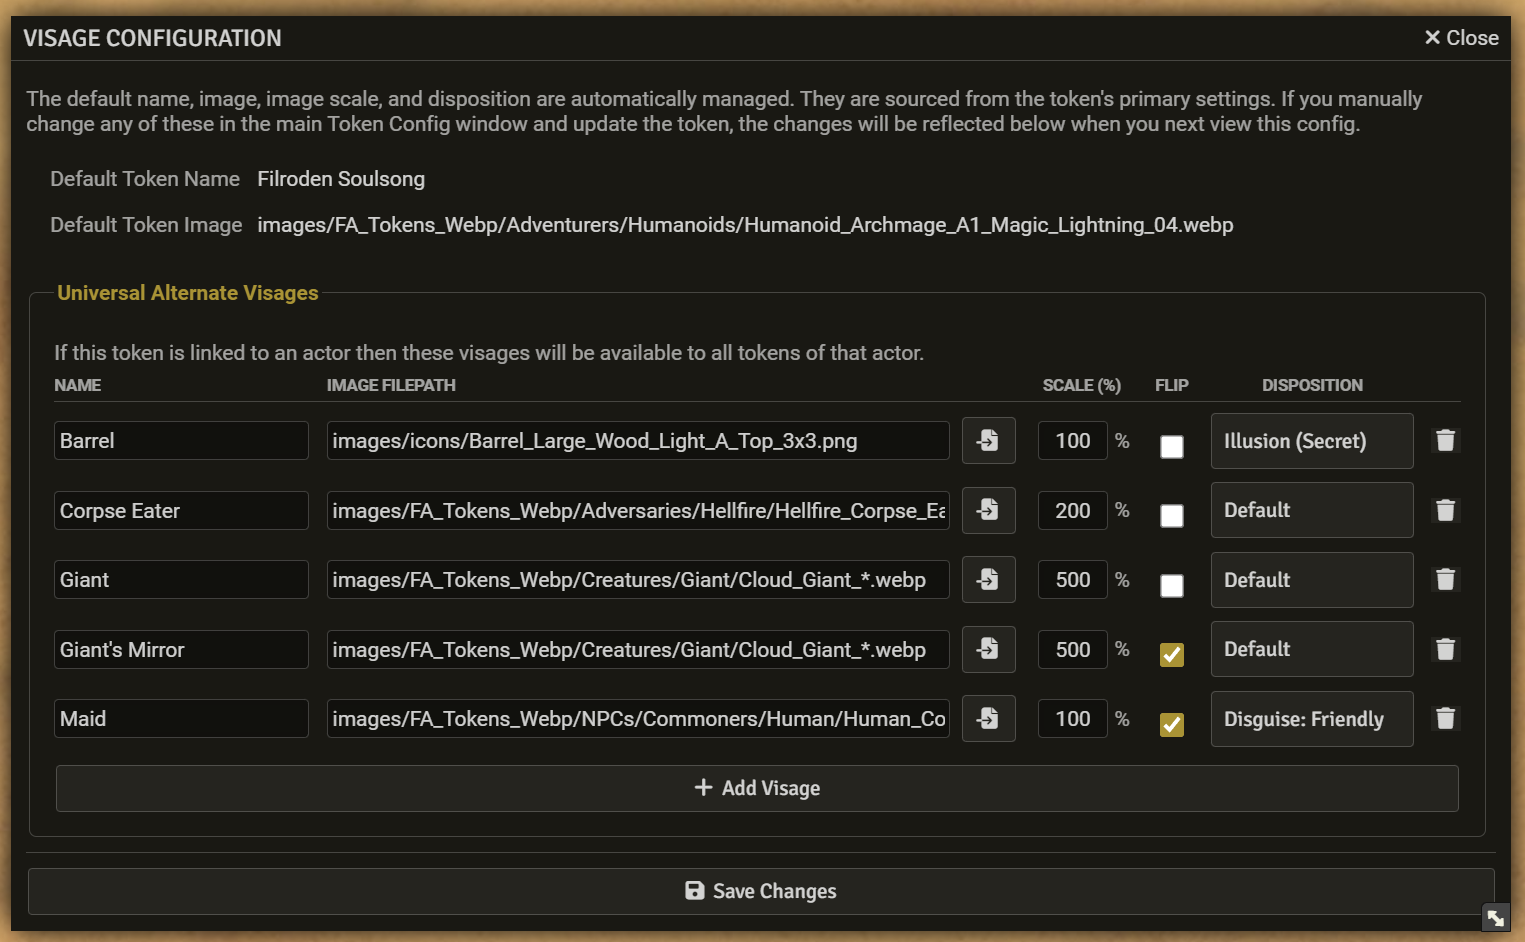
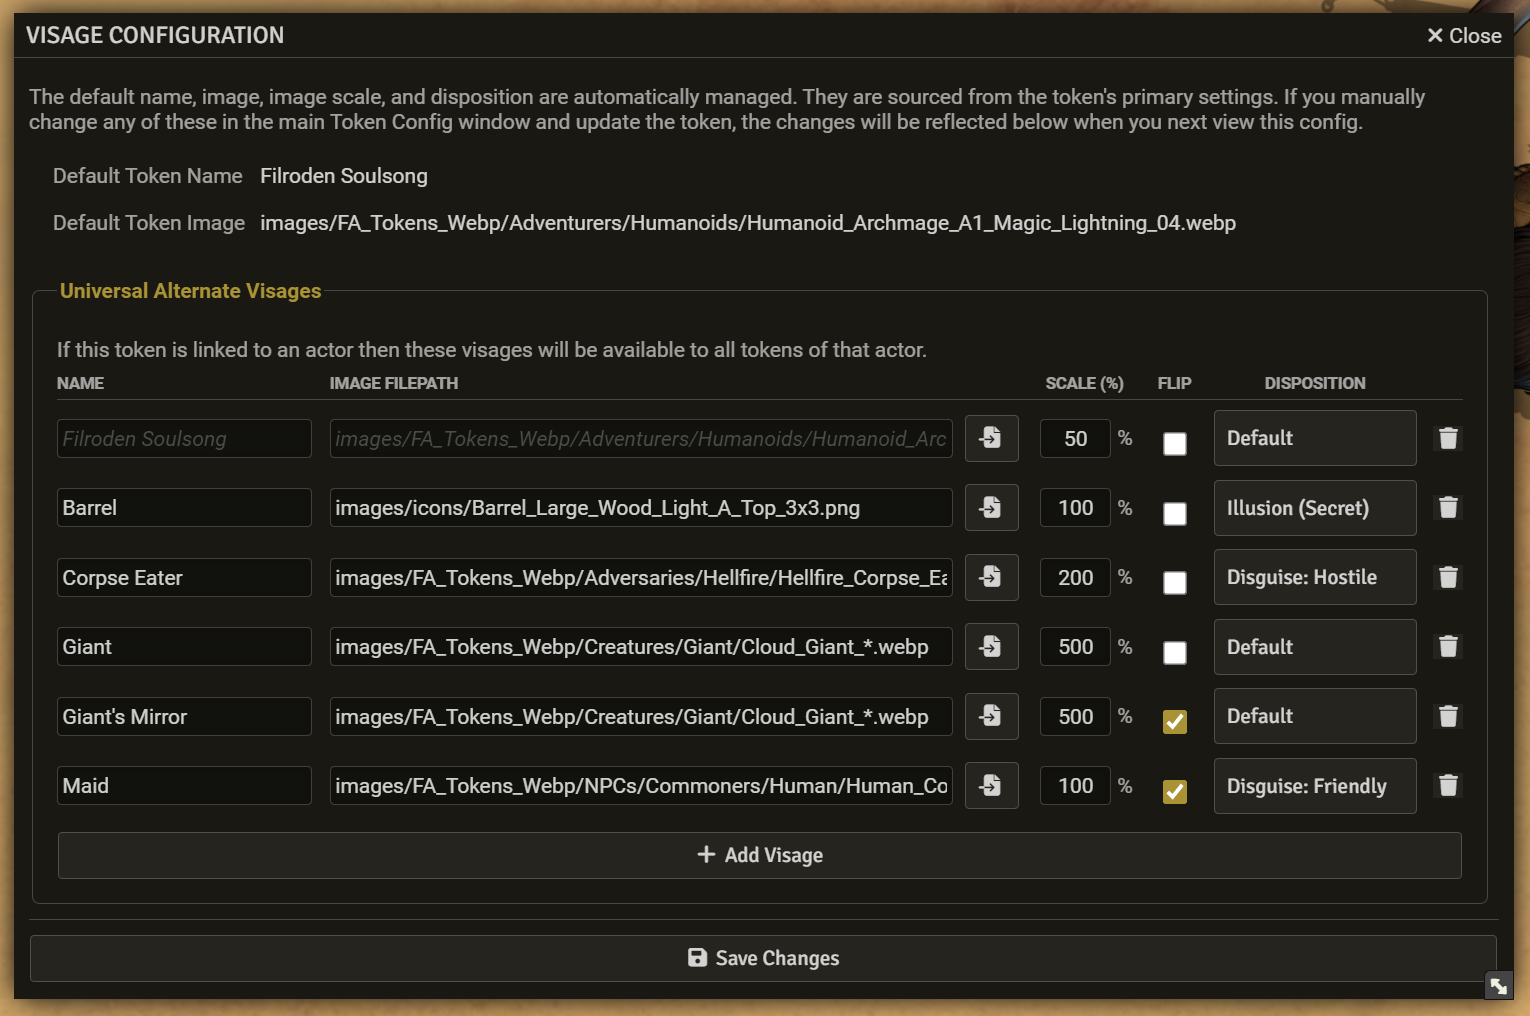
feat: accept default name and path (#31)
Visages can now be saved with blank Name or Image Path fields to create "partial" visages that only change scale and/or disposition, inheriting the token's default name/image as needed.

Upgraded the getForms API to accept an optional tokenId to intelligently resolve these partial visages using either token-specific defaults or (if no ID is provided) the actor's prototype token defaults.

diff --git a/visage-config.js b/visage-config.js
@@ -339,38 +339,7 @@ export class VisageConfigApp extends Application {
         let validationFailed = false;
         let newVisageCounter = 1;
 
-        // --- 1. VALIDATION PASS ---
-        // First, loop through and validate all data before saving anything.
-        for (const row of visageRows) {
-            const nameInput = row.querySelector('input[name="visage-name"]'); // Changed to 'visage-name'
-            const pathInput = row.querySelector('input[name="visage-path"]');
-            if (!nameInput || !pathInput) continue;
-
-            let name = nameInput.value.trim(); // Changed 'key' to 'name'
-            const path = pathInput.value.trim();
-
-            if (!name && !path) continue; // Skip totally blank rows (e.g., an empty "new" row)
-
-            // Auto-generate a name
-            if (!name) {
-                name = `Visage ${newVisageCounter++}`;
-                nameInput.value = name; // Update the form input field
-            }
-
-            // Check for empty paths
-            if (!path) {
-                ui.notifications.error(`Image path for "${name}" cannot be empty.`);
-                validationFailed = true;
-                break;
-            }
-        }
-
-        if (validationFailed) {
-            this.isDirty = true; // Re-set dirty state since save failed
-            return;
-        }
-
-        // --- 2. SAVE PASS ---
+        // --- SAVE PASS ---
         // If validation passed, build the update payload.
         const ns = Visage.DATA_NAMESPACE;
         const alternateFlagKey = Visage.ALTERNATE_FLAG_KEY; // "alternateVisages"
@@ -387,21 +356,15 @@ export class VisageConfigApp extends Application {
             // Check for an existing UUID data attribute
             uuid = row.dataset.uuid || null;
 
-            const name = row.querySelector('input[name="visage-name"]')?.value.trim(); // Changed to 'visage-name' and 'name'
+            const name = row.querySelector('input[name="visage-name"]')?.value.trim();
             const path = row.querySelector('input[name="visage-path"]')?.value.trim();
+            
+            // --- Parse Scale ---
             const scaleInput = row.querySelector('input[name="visage-scale"]')?.value;
-            // Convert percentage string back to a float (default to 100% -> 1.0)
             let scale = (scaleInput ? parseInt(scaleInput, 10) : 100) / 100; 
             const isFlippedX = row.querySelector('input[name="visage-flip-x"]')?.checked;
-
-            // Apply flip: store scale as negative if flipped
-            if (isFlippedX) {
-                scale = -Math.abs(scale); 
-            } else {
-                scale = Math.abs(scale); 
-            }
-
-            // Get Disposition Value
+            
+            // --- Parse Disposition ---
             let savedDisposition = null; // Default to 'null' (No Change)
             const dispoType = row.querySelector('input[name^="visage-disposition-type-"]:checked')?.value;
             if (dispoType === "illusion") {
@@ -411,28 +374,45 @@ export class VisageConfigApp extends Application {
                 savedDisposition = parseInt(val, 10); // -1, 0, or 1
             }
 
-            // Only process rows that have valid data
-            if (name && path) { // Changed 'key' to 'name'
-                    // If it's a new row, assign a UUID
-                    if (!uuid) {
-                        uuid = foundry.utils.randomID(16); // Generate a new UUID
-                    }
-                    uuidsToKeep.add(uuid); // Changed from 'keysToKeep'
+            // --- Skip empty new rows ---
+            // A row is "empty" if it's new (no uuid) AND
+            // has no name, no path, a default 100% scale (not flipped),
+            // and no disposition change (null).
+            const isDefaultScale = (scale === 1.0 && !isFlippedX);
+            const isDefaultDispo = (savedDisposition === null);
 
-                    // The data object to be saved
-                    const newVisageData = { 
-                        name: name, // Uses the 'name' variable
-                        path, 
-                        scale,
-                        disposition: savedDisposition
-                    };
-                
-                // --- Check for changes ---
-                const currentData = originalAlternates[uuid];
-                // If it's a new entry OR if the JSON stringified data differs
-                if (!currentData || JSON.stringify(currentData) !== JSON.stringify(newVisageData)) {
-                    updatePayload[`flags.${ns}.${alternateFlagKey}.${uuid}`] = newVisageData;
-                }
+            if (!uuid && !name && !path && isDefaultScale && isDefaultDispo) {
+                return; // Skips this iteration (jQuery .each() equivalent of 'continue')
+            }
+            // --- End logic ---
+            
+            // Apply flip (this must be *after* the default check)
+            if (isFlippedX) {
+                scale = -Math.abs(scale); 
+            } else {
+                scale = Math.abs(scale); 
+            }
+
+            // --- Continue with original save logic (minus the 'if (name && path)') ---
+            
+            // If it's a new row, assign a UUID
+            if (!uuid) {
+                uuid = foundry.utils.randomID(16); // Generate a new UUID
+            }
+            uuidsToKeep.add(uuid);
+
+            // The data object to be saved
+            const newVisageData = { 
+                name: name, // Will be "" if empty
+                path: path, // Will be "" if empty
+                scale,
+                disposition: savedDisposition
+            };
+        
+            // Check for changes
+            const currentData = originalAlternates[uuid];
+            if (!currentData || JSON.stringify(currentData) !== JSON.stringify(newVisageData)) {
+                updatePayload[`flags.${ns}.${alternateFlagKey}.${uuid}`] = newVisageData;
             }
         });
 

diff --git a/visage.js b/visage.js
@@ -214,17 +214,23 @@ export class Visage {
         } else {
             // Case: Switching to an alternate form.
             const alternateVisages = moduleData[this.ALTERNATE_FLAG_KEY] || {};
-            // The formKey is the UUID
-            const visageData = alternateVisages[formKey]; 
+            const visageData = alternateVisages[formKey];
             
             if (!visageData) {
                 this.log(`Form key "${formKey}" not found for actor ${actorId}`, true);
                 return false;
             }
+
+            // Get the defaults to use as fallbacks
+            const defaults = tokenData.defaults;
+            if (!defaults) {
+                this.log(`Cannot set visage; no defaults saved for token ${tokenId}.`, true);
+                return false;
+            }
             
-            // Extract the visage data
-            newName = visageData.name;
-            newTokenPath = visageData.path;
+            // Extract the visage data, falling back to defaults if empty
+            newName = visageData.name || defaults.name;
+            newTokenPath = visageData.path || defaults.token;
             newScale = visageData.scale ?? 1.0;
             newDisposition = visageData.disposition;
         }
@@ -267,31 +273,56 @@ export class Visage {
     /**
      * API function to retrieve all configured alternate forms for an actor.
      *
-     * This is a helper function, primarily used to populate UI elements
-     * like the VisageSelector.
+     * Empty names or paths will be resolved using default data.
+     * If a `tokenId` is provided, it uses that token's specific defaults.
+     * If not, it falls back to the Actor's prototype token data.
      *
      * @param {string} actorId - The ID of the actor.
-     * @returns {Array<object>|null} - An array of visage objects, or null if none are configured.
-     * Each object has the shape: { key, name, path, scale, disposition }
+     * @param {string} [tokenId=null] - (Optional) The ID of a token to use for default fallbacks.
+     * @returns {Array<object>|null} - An array of visage objects.
      */
-    static getForms(actorId) {
+    static getForms(actorId, tokenId = null) {
         const actor = game.actors.get(actorId);
-        // Note: alternateVisages is an object keyed by UUID
+        if (!actor) {
+            this.log(`getForms: Actor not found with ID ${actorId}`, true);
+            return null;
+        }
+
+        let defaults;
+
+        // 1. Try to get token-specific defaults if a tokenId is provided
+        if (tokenId) {
+            defaults = actor.flags?.[this.DATA_NAMESPACE]?.[tokenId]?.defaults;
+        }
+
+        // 2. If no token ID was given, or no defaults were found for that token,
+        //    use the actor's prototype token data as the fallback.
+        if (!defaults) {
+            const proto = actor.prototypeToken;
+            defaults = {
+                name: proto.name,
+                token: proto.texture.src // Map to match the 'token' key from token-specific defaults
+            };
+        }
+
+        // 3. Get the raw alternate visages
         const alternateVisages = actor?.flags?.[this.DATA_NAMESPACE]?.[this.ALTERNATE_FLAG_KEY];
 
-        if (!alternateVisages) { // Corrected from 'alternateImages'
+        if (!alternateVisages) {
             return null; // No forms configured
         }
 
-        // Map the stored UUID-keyed object data into a standardised array format
+        // 4. Map the results, using the resolved defaults
         return Object.entries(alternateVisages).map(([uuid, data]) => {
-            const path = data.path;
+            // Use the determined defaults as fallback for empty strings
+            const name = data.name || defaults.name;
+            const path = data.path || defaults.token; // Use .token to match our defaults object
             const scale = data.scale ?? 1.0;
             const disposition = data.disposition ?? null;
             
             return {
-                key: uuid,          // The unique identifier (UUID)
-                name: data.name,    // The display name
+                key: uuid,
+                name: name,
                 path: path,
                 scale: scale,
                 disposition: disposition

diff --git a/visage-selector.js b/visage-selector.js
@@ -160,34 +160,33 @@ export class VisageSelector extends Application {
         for (const [uuid, data] of Object.entries(alternateVisages)) {
             // Handle old string-only data format vs. new {path, scale} object
             const isObject = typeof data === 'object' && data !== null;
-            const path = isObject ? (data.path || "") : (data || ""); // Ensure path
+            
+            // Use defaults as fallback for empty name or path
+            const name = data.name || defaults.name;
+            const path = (isObject ? data.path : data) || defaults.token; // Handles old format & empty
+            
             const scale = isObject ? (data.scale ?? 1.0) : 1.0;
-
             let disposition = (isObject && data.disposition !== undefined) ? data.disposition : null;
 
             // Calculate display values
             const isFlippedX = scale < 0;
             const absScale = Math.abs(scale);
             const displayScale = Math.round(absScale * 100);
-            // Only show the scale chip if it's not 100%
             const showScaleChip = scale !== 1;
-
-            // Disposition properties
             const dispositionInfo = (disposition !== null) ? this._dispositionMap[disposition] : null;
 
             forms[uuid] = {
                 key: uuid,
-                name: data.name,
-                path: data.path,
-                scale: data.scale,
-                isActive: uuid === currentFormKey, // Check against UUID
+                name: name, // Use fallback-inclusive name
+                path: path, // Use fallback-inclusive path
+                scale: scale, // Use calculated scale
+                isActive: uuid === currentFormKey,
                 isDefault: false,
                 isFlippedX: isFlippedX,
                 displayScale: displayScale,
                 showScaleChip: showScaleChip,
                 absScale: absScale,
-                // Check if the path is a wildcard
-                isWildcard: path.includes('*'),
+                isWildcard: path.includes('*'), // Use fallback-inclusive path
                 showDispositionChip: !!dispositionInfo,
                 dispositionName: dispositionInfo?.name || "",
                 dispositionClass: dispositionInfo?.class || ""

diff --git a/README.md b/README.md
@@ -16,9 +16,15 @@ Software and associated documentation files in this repository are covered by an
 
 ## Roadmap
 
-* [Short term] Allow blank values to be used for name and path, so that if only token image scale or disposition are changed, the visage retains the default name and path.
-* [Long term] Add the ability to create and use a global directory of visages, so certain effects can be applied quickly to any token (e.g., enlarge/reduce effects).
-* [Long term] Move to ApplicationV2.
+[Short term]
+
+* None yet.
+
+[Long term]
+
+* Add the ability to create and use a global directory of visages, so certain effects can be applied quickly to any token (e.g., enlarge/reduce effects).
+* Move to ApplicationV2.
+* Test module against FoundryVTT v14.
 
 ## How to Use Visage
 
@@ -35,8 +41,12 @@ Before you can switch **Visages**, you need to define them for a token. These **
 3. **Add Alternate Visages**:
     * Click the "**Add Visage**" button to create a new alternate form.
     * For each  **Visage**, you must provide:
-        * **Name**: A name for the **Visage** (e.g., "[Name] (Wolf Form)", "[Name] (Enlarged)", "Barrel"). This name will also be used for the token's name when this **Visage** is active so remember this is what other players will see.
-        * **Image Path**: The path to the image file for this **Visage**. You can use the folder icon to open the File Picker. Wildcards (`*`) are supported to select a random image from a folder, e.g., 'path/to/images/wolf_*.webp'.
+        * **Name**: A name for the **Visage** (e.g., "[Name] (Wolf Form)", "[Name] (Enlarged)", "Barrel"). This name will also be used for the token's name when this **Visage** is active so remember this is what other players will see. **This is optional**.
+            * If you leave this field blank, the Visage will use the token's current default name when applied.
+            * If you provide a name, it will override the token's name as usual.
+        * **Image Path**: The path to the image file for this **Visage**. **This is optional**.
+            * If you leave this field blank, the Visage will use the token's current default image when applied.
+            * You can use the folder icon to open the File Picker. Wildcards (`*`) are supported (e.g., 'path/to/images/wolf_*.webp').
         * **Scale**: A percentage scale factor (e.g., `100%`, `80%`, `150%`). This will visually enlarge or shrink the token image on the canvas without changing its actual size. The default is `100%` (no change).
         * **Flip**: If ticked, the image will be flipped horizontally.
         * **Disposition**: Controls the token's disposition (border colour and interactability) when this **Visage** is active. Next to the Flip checkbox, there's a **Disposition** button showing the current setting (e.g., 'Default', 'Disguise: Friendly', 'Illusion: Secret').
@@ -47,7 +57,7 @@ Before you can switch **Visages**, you need to define them for a token. These **
 4. **Delete Alternative Visages**: Click the trash icon to delete the **Visage**.
 5. **Save Changes**: If you make any changes (add new **Visage**, change a value in an existing **Visage**, or delete a **Visage**), the "Save Changes" button will highlight. Clicking it will save the changes and close the **Visage Configuration** window.
 
-![Visage Configuration with Disposition](images/visage_configuration.png)
+<img src="images/visage_configuration.png" alt="Visage Configuration with Disposition" width="500" style="display: block; margin: 0 auto;">
 
 ### 2. Selecting a Visage
 
@@ -63,7 +73,7 @@ Once configured, switching between **Visages** is simple.
     * If a **Visage** changes the token's disposition, a coloured chip will appear at the bottom-center indicating the state (e.g., 'Friendly', 'Hostile', 'Secret'), matching Foundry's disposition colours.
 4. **Click to Switch**: Simply click on a **Visage** in the grid. The token's image, name, scale, flip, and disposition will instantly update to match your selection, and the selector will close.
 
-![Visage Selector HUD with Disposition Chip](images/selector_hud.png)
+<img src="images/selector_hud.png" alt="Visage Selector HUD with Disposition Chip" height="500" style="display: block; margin: 0 auto;">
 
 ### 3. Restoring the Default
 
@@ -126,7 +136,7 @@ The core function to switch the specified Token to the specified appearance form
 
 **Details:**
 
-This function updates the token's `name`, `texture.src`, `texture.scaleX`, `texture.scaleY`, **and `disposition`** based on the data saved for the specified `formKey`. If the `formKey` is `"default"`, it restores the values captured automatically by Visage. If the configured disposition for the form is set to "Default (No Change)" (`null` internally), the token's disposition will *not* be modified by this call when switching to that form.
+This function updates the token's `name`, `texture.src`, `texture.scaleX`, `texture.scaleY`, and `disposition` based on the data saved for the specified `formKey`. If the `formKey` is `"default"`, it restores the values captured automatically by Visage. If the configured disposition for the form is set to `"Default (No Change)"` (`null` internally), the token's disposition will *not* be modified by this call when switching to that form. If the saved visage has a blank name or image path, this function will automatically use the token's captured default name/image instead.
 
 **Example:** Switch a specific token to a 'Wolf' form
 
@@ -141,34 +151,36 @@ Retrieves a standardised array of all available alternate visages for a given Ac
 | Parameter | Type     | Description                          |
 | :-------- | :------- | :----------------------------------- |
 | `actorId` | `string` | The ID of the Actor document to query. |
+| `tokenId` | `string` (optional) | The ID of a specific Token. If provided, its defaults will be used for fallbacks. If omitted, the Actor's prototype token data will be used instead. |
 
 **Signature:**
 
 ```typescript
-(actorId: string): Array<object> | null
+(actorId: string, tokenId?: string): Array<object> | null
 ```
 
 **Returns:**
 
 * An `Array` of visage objects, where each object has the following structure:
   * `key` (string): The internal unique identifier (UUID) for the visage.
-  * `name` (string): The user-defined display name of the visage (e.g., "Wolf Form").
-  * `path` (string): The image file path for the visage.
+  * `name` (string): The resolved display name. If the visage had a blank name, this will be the default name (either from the token or the prototype).
+  * `path` (string): The resolved image file path. If the visage had a blank path, this will be the default image path.
   * `scale` (number): The configured scale factor for the visage (e.g., `1.0`, `1.2`, `-0.8`).
   * `disposition` (number | null): The configured disposition override value (`1`: Friendly, `0`: Neutral, `-1`: Hostile, `-2`: Secret) or `null` if the visage is set to "Default (No Change)".
 * Returns `null` if no alternate forms are defined or the Actor is not found.
 
-**Example:**
+**Example 1: Using only an Actor ID**
 
 ```javascript
+// This will use the actor's prototype token for fallbacks
 const forms = visageAPI.getForms("actor-id-12345");
+
 // forms might look like:
-// [
-//   { key: "a1b2c3d4e5f6g7h8", name: "Wolf", path: "path/to/wolf.webp", scale: 1.2, disposition: -1 }, // Hostile wolf
-//   { key: "i9j0k1l2m3n4o5p6", name: "Disguise", path: "path/to/mask.webp", scale: 1.0, disposition: 1 }, // Friendly disguise
-//   { key: "q7r8s9t0u1v2w3x4", name: "Illusion", path: "path/to/illusion.webp", scale: 1.0, disposition: -2 }, // Secret illusion
-//   { key: "y5z6a7b8c9d0e1f2", name: "Wounded", path: "path/to/wounded.webp", scale: 1.0, disposition: null } // No disposition change
+// [ 
+//   { key: "a1...", name: "Wolf", path: "path/to/wolf.webp", scale: 1.2, disposition: -1 }, 
+//   { key: "b2...", name: "Token's Default Name", path: "path/to/enlarge.webp", scale: 1.5, disposition: null } 
 // ]
+
 ```
 
 #### 3\. isFormActive
@@ -230,6 +242,8 @@ const resolved = await visageAPI.resolvePath(wildcardPath);
 ## Note on Token vs. Actor IDs
 
 The Visage API methods generally require both an `actorId` and a `tokenId` because the custom visage configurations are stored on the Actor Document, but the visual changes (image, name, scale, disposition) must be applied to the specific Token Document on the canvas. The currently active form is also tracked per-token.
+
+The Visage API methods like `setVisage` and `isFormActive` require both an `actorId` and a `tokenId` because the custom visage configurations are stored on the Actor Document, but the visual changes (image, name, scale, disposition) must be applied to the specific Token Document on the canvas. The currently active form is also tracked per-token. The `getForms` method is an exception, as it can function with just an `actorId` (falling back to prototype token data), but providing a `tokenId` will yield more accurate results for default values.
 
 You can reliably get both IDs from any selected Token instance (`token`) on the canvas using:
 

diff --git a/VERSION.md b/VERSION.md
@@ -2,6 +2,7 @@
 
 | Version | Changes |
 | :--- | :--- |
+| **Version 1.1.0** | * Visages can now be saved with blank Name or Image Path fields to create "partial" visages, inheriting the token's default name/image as needed.<br>* Upgraded the getForms API to accept an optional tokenId to intelligently resolve these partial visages using either token-specific defaults or (if no ID is provided) the actor's prototype token defaults. |
 | **Version 1.0.8** | * Internal changes (rename misleading name-key and UUID-key variables) |
 | **Version 1.0.7** | * Correct manifest link (for real this time) |
 | **Version 1.0.6** | * Correct manifest link |
